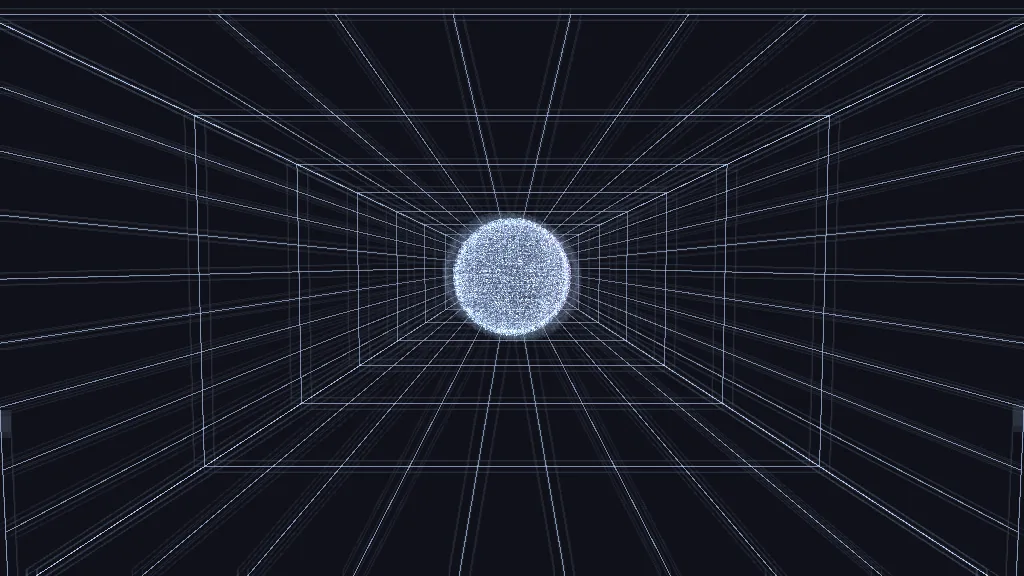
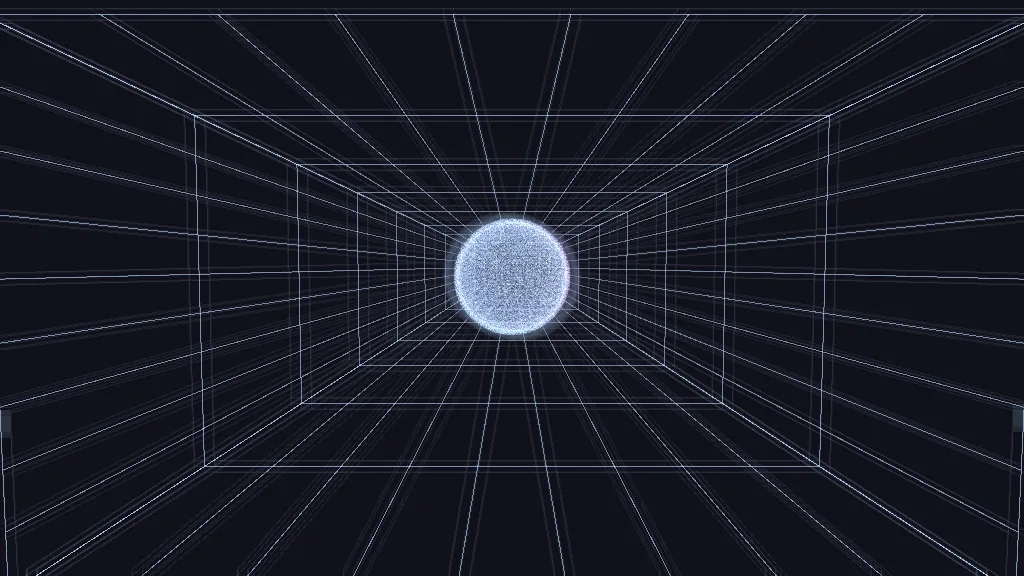
Bring the landing page up to the release it links to
The page had stopped at 0.7.0 while the download button — a permalink to
the latest release — kept serving newer ones. So it undersold what the
button delivers and, worse, described things wrongly: eight faders where
there are sixteen, imports listed as PLY and XYZ where a drop takes PTS
and CSV too, and nothing at all about the gravity layer or the workflow
the last two releases were built around.

The changelog gains 0.8.0 and 0.9.0, in the entries' existing register:
what changed, why it matters mid-set, and the fix notes that a performer
would want to know about — including that the hash fix shifts every
preset's look slightly.

Two cards join the grid: looks becoming scenes, and the gravity layer
over them. Both are the app's actual shape now, not features on a list.

The preset stills are re-rendered. The page says every one is a real
frame rendered from the preset itself, and the hash fix made that claim
false — the committed shots showed the collapsed field, duplicate
particles speckled on top of each other, which is exactly the artefact
0.9.0 removed. The new frames are visibly denser and smoother, and
compress smaller for the same quality, both for the same reason.

The commit that added the stills promised regenerating them was "a
script rather than a screenshot session", and then did not keep the
script. It exists now — headless render, preset recalled over OSC, WebP
at the same quality — so the next renderer change that alters a look is
[…]

Changed region(s): [[0.4375, 0.375, 0.5625, 0.5938]]

diff --git a/site/index.html b/site/index.html
@@ -177,9 +177,22 @@
       </div>
       <div class="card">
         <h3>Played, not configured</h3>
-        <p>OSC and MIDI on every parameter, with MIDI learn. Presets on the
-          number keys. A performance layout with eight assignable faders and
-          nothing else competing for the screen.</p>
+        <p>OSC and MIDI on every parameter. Sixteen assignable faders on the
+          performance layout, each with MIDI learn and a ghost mark showing
+          where modulation has actually pushed it.</p>
+      </div>
+      <div class="card">
+        <h3>Looks become scenes</h3>
+        <p>Design a look, save it as a preset, put it on one of sixteen pads,
+          and fire it mid-set — the blend takes musical time and moves the
+          parameters, not a crossfade. Edit a preset once and every pad
+          playing it follows.</p>
+      </div>
+      <div class="card">
+        <h3>A gravity layer above them</h3>
+        <p>Four attractors and repulsors bend the cloud from a layer over the
+          scenes, with their own presets and their own sixteen-pad grid.
+          Looks and wells compose instead of overwriting each other.</p>
       </div>
       <div class="card">
         <h3>Modulation as a node graph</h3>
@@ -189,9 +202,10 @@
       </div>
       <div class="card">
         <h3>Geometry</h3>
-        <p>Eight morphing modes including two strange attractors, plus PLY and
-          XYZ import with colour. A real camera with depth of field, and a
-          wireframe room sized to the frame for forced perspective.</p>
+        <p>Eight morphing modes including two strange attractors. Drop a PLY,
+          XYZ, PTS or CSV onto the window to load a scan, colour included. A
+          real camera with depth of field, and a wireframe room sized to the
+          frame for forced perspective.</p>
       </div>
       <div class="card">
         <h3>Live point clouds</h3>
@@ -229,6 +243,54 @@
   <div class="wrap">
     <h2>Changelog</h2>
     <p class="sub">Newest first. Full notes on each release page.</p>
+
+    <div class="rel">
+      <div class="v"><a href="https://github.com/legofsalmon/vizz/releases/tag/v0.9.0">0.9.0</a></div>
+      <ul>
+        <li><strong>The gravity layer.</strong> Four attractors and repulsors
+          that bend the cloud, sitting over the scenes with their own presets
+          and their own sixteen-pad grid — a look firing cannot disturb the
+          wells, and a well cannot disturb the look.</li>
+        <li><strong>Drop files onto the window.</strong> Point clouds as PLY,
+          XYZ, PTS or CSV; your own colour palettes as GIMP
+          <code>.gpl</code> or a list of hex colours. Both come back on the
+          next launch.</li>
+        <li><strong>Output size and render size are separate</strong>, with a
+          16-bit float master behind a toggle. Render above 1× for free
+          anti-aliasing, below it for frame rate on a struggling machine.</li>
+        <li><strong>A MIDI button can fire one pad.</strong> A binding can
+          carry a slot, so sixteen buttons address sixteen scenes instead of
+          all firing the last one. Existing <code>midi.json</code> files load
+          unchanged.</li>
+        <li><strong>Fixed: the field collapsed at high counts.</strong> A
+          float hash ran out of precision above ~50k particles, so bigger
+          counts drew repeats on top of each other. The count slider buys
+          density all the way up now — every preset's look shifts slightly.</li>
+        <li>Escape asks before it quits, saving over a preset says so first,
+          and a pre-1.0 review's worth of smaller fixes — full notes on the
+          release.</li>
+      </ul>
+    </div>
+
+    <div class="rel">
+      <div class="v"><a href="https://github.com/legofsalmon/vizz/releases/tag/v0.8.0">0.8.0</a></div>
+      <ul>
+        <li><strong>Scenes name presets.</strong> A pad references a saved
+          look rather than owning a copy of it, which is what makes the
+          workflow work: prepare any number of looks at a desk, load sixteen
+          into the grid at performance time.</li>
+        <li><strong>The performance layout, rebuilt.</strong> Sixteen faders
+          with MIDI learn and modulation marks, the grid and transport beside
+          them, and text contrast chosen for a dark room rather than a
+          desk.</li>
+        <li><strong>Background colour, down to fully transparent</strong> —
+          vizz as a layer in someone else's mix rather than the whole
+          picture.</li>
+        <li><strong>An audio input picker</strong>, camera panning with a
+          reset to centre, and the control panel cut back to its one job:
+          building a look.</li>
+      </ul>
+    </div>
 
     <div class="rel">
       <div class="v"><a href="https://github.com/legofsalmon/vizz/releases/tag/v0.7.0">0.7.0</a></div>
